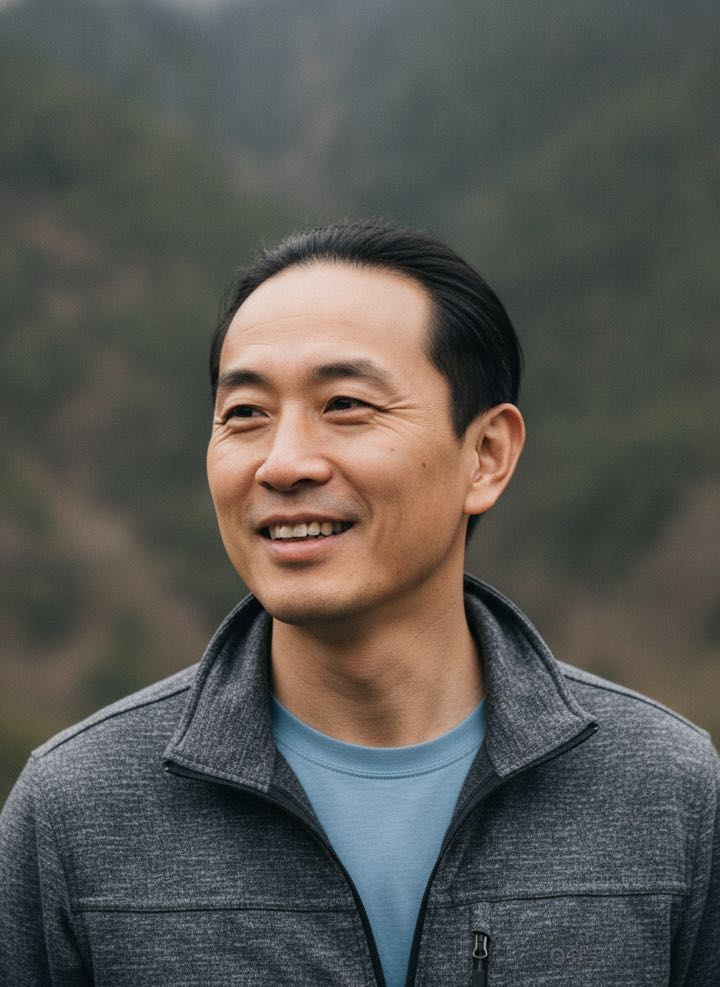
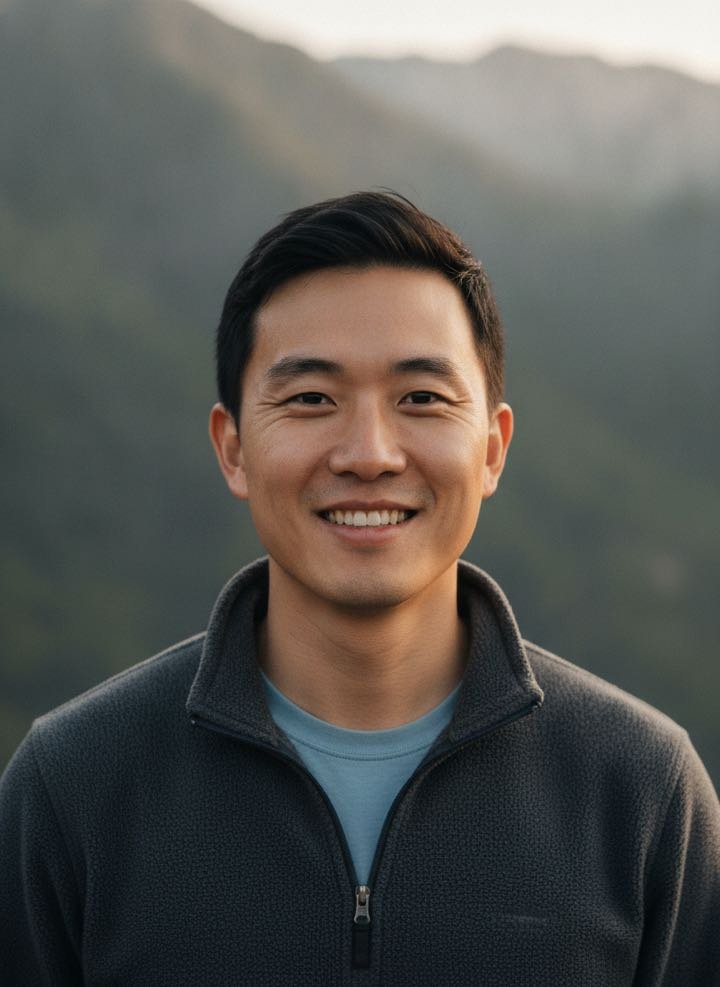
feat(home): 首屏示範人物增為 12 位（男女各 6）
- 新增語婷、承翰、以萱、俊傑、欣怡、柏宇，補齊閱讀、獨立音樂、瑜伽冥想、品酒、創作者、重訓這幾個圈的示範對象
- 偉翔換成更年輕自然的新照片
- 照片用 Gemini 生成（Foci repo 的 scripts/gen-sample-users.mjs），每張人工檢查過；頁尾本來就註明人物為示意
- 「和你同圈 N 位」超過 6 人時只列前 6 個名字，後面加「等」，避免整行太長

diff --git a/index.html b/index.html
@@ -1090,6 +1090,7 @@
 
       /* ── 首屏：選圈 → 找出同圈的人 ── */
       var MIN_SLOTS = 3; // 結尾那段至少顯示幾個位置（不足的用「再挑一個」補）
+      var NAMES_SHOWN = 6; // 「和你同圈 N 位」最多列出幾個名字
       var SWIPE_MIN = 90; // 拖超過這個距離（px）才算滑走
       var STAMP_TEXT = { like: '喜歡', nope: '略過', super: '超級喜歡' };
       var PEOPLE = [
@@ -1098,7 +1099,13 @@
         { id: 'zirui', name: '子睿', age: 35, km: '6.5', job: '攝影師', bio: '街拍攝影師，用底片記錄城市的光。喜歡老城區、霓虹燈和雨後的反光。', circles: ['攝影同好', '電影同好', '獨立音樂', '精品咖啡', '旅行揪伴', '創作者'] },
         { id: 'caijie', name: '采潔', age: 28, km: '3.2', job: '美食編輯', bio: '美食編輯，吃遍台北是我的工作也是興趣。最懂巷弄裡的隱藏名單。', circles: ['美食探店', '品酒微醺', '旅行揪伴'] },
         { id: 'ryan', name: 'Ryan', age: 33, km: '5.4', job: '遠端工作者', bio: '半個遊牧民族，去過 30 幾個國家。最愛海島和潛水，也愛爬山。', circles: ['旅行揪伴', '登山健行', '攝影同好', '美食探店'] },
-        { id: 'weixiang', name: '偉翔', age: 32, km: '2.7', job: '軟體工程師', bio: '假日一定往山上跑的工程師。爬過 27 座百岳，背包裡永遠塞著一台相機。', circles: ['登山健行', '攝影同好', '旅行揪伴', '精品咖啡'] }
+        { id: 'weixiang', name: '偉翔', age: 32, km: '2.7', job: '軟體工程師', bio: '假日一定往山上跑的工程師。爬過 27 座百岳，背包裡永遠塞著一台相機。', circles: ['登山健行', '攝影同好', '旅行揪伴', '精品咖啡'] },
+        { id: 'yuting', name: '語婷', age: 27, km: '4.6', job: '出版編輯', bio: '週末的固定行程是逛獨立書店。想找一個可以安靜待著，也能聊到天亮的人。', circles: ['閱讀書友', '精品咖啡', '電影同好', '創作者'] },
+        { id: 'chenghan', name: '承翰', age: 31, km: '3.8', job: '音樂製作人', bio: '白天做配樂，晚上泡在 Live House。吉他彈得普通，但很會挑歌。', circles: ['獨立音樂', '創作者', '品酒微醺', '電影同好'] },
+        { id: 'yixuan', name: '以萱', age: 30, km: '2.9', job: '瑜伽老師', bio: '早起練瑜伽，假日爬山。喜歡慢慢來的步調，也喜歡認真聊天的人。', circles: ['瑜伽冥想', '登山健行', '閱讀書友', '精品咖啡'] },
+        { id: 'junjie', name: '俊傑', age: 34, km: '5.1', job: '餐酒館老闆', bio: '開了一間小酒館，最懂搭餐的酒。休息日愛看老電影，也愛到處找好吃的。', circles: ['品酒微醺', '美食探店', '電影同好', '旅行揪伴'] },
+        { id: 'xinyi', name: '欣怡', age: 28, km: '1.9', job: '插畫家', bio: '自由接案的插畫家，工作室堆滿畫布和顏料。喜歡用畫記錄身邊的人。', circles: ['創作者', '攝影同好', '獨立音樂', '精品咖啡'] },
+        { id: 'boyu', name: '柏宇', age: 28, km: '4.4', job: '物理治療師', bio: '一週練四天，假日愛去爬山。想找能一起訓練、也能一起吃大餐的夥伴。', circles: ['重訓健身', '登山健行', '美食探店', '旅行揪伴'] }
       ];
       var picked = ['精品咖啡'];
       var matches = [];
@@ -1188,7 +1195,10 @@
         resultEl.textContent = '';
         if (!picked.length) { resultEl.textContent = '先選一個圈。'; return; }
         resultEl.appendChild(document.createTextNode('和你同圈 ' + matches.length + ' 位：'));
-        resultEl.appendChild(el('b', null, matches.map(function (p) { return p.name; }).join('、')));
+        // 人多時只列前 NAMES_SHOWN 位，避免這行拉得太長
+        var names = matches.slice(0, NAMES_SHOWN).map(function (p) { return p.name; }).join('、');
+        resultEl.appendChild(el('b', null, names));
+        if (matches.length > NAMES_SHOWN) resultEl.appendChild(document.createTextNode(' 等'));
       }
 
       // 結尾那段的圈：帶入首屏挑的圈（全部），不足 MIN_SLOTS 個的空位可以點回去挑
